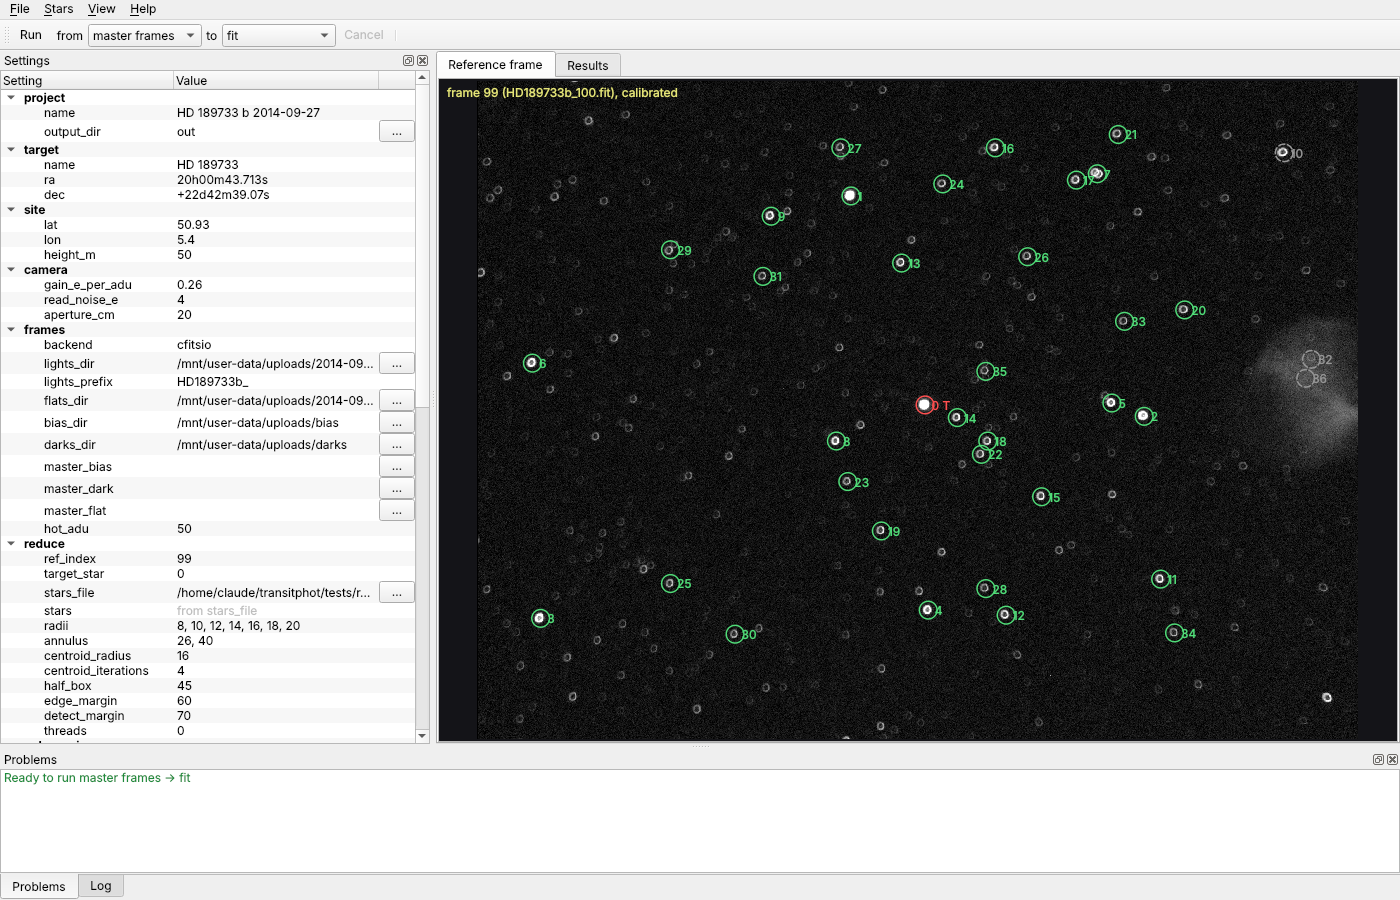
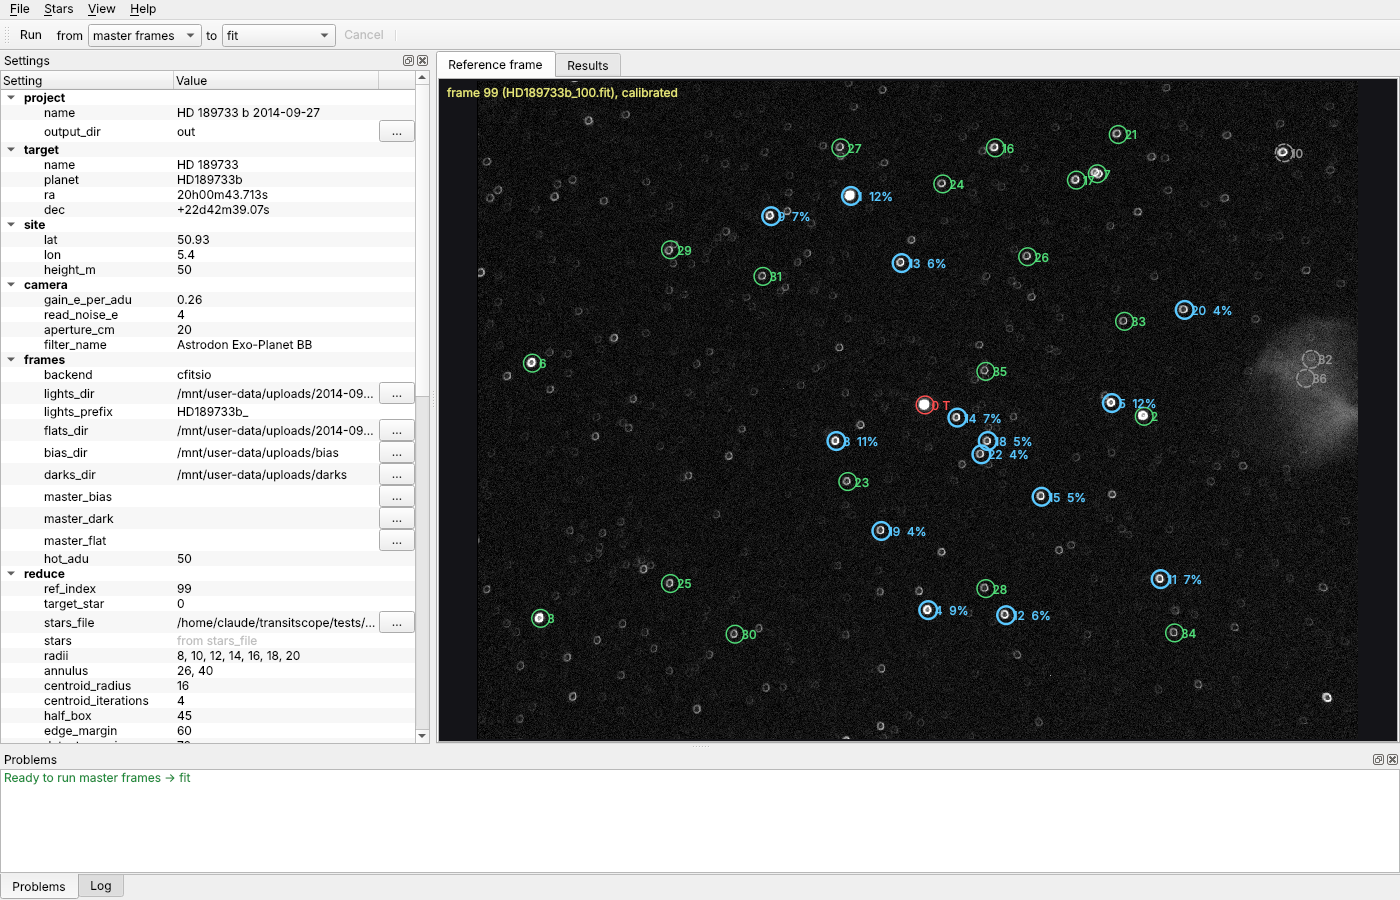
Stable comparison-star selection
The comparison-star selection is now stable (TransitScope 0.10.0). I fixed it differently from what I proposed, because measuring it showed the minimum-weight idea wouldn’t have helped.

What the measurements showed: I wrote a test, tests/unit/comp_stability_test, that disturbs the selection on purpose in two ways:

Excluding stars that weren’t chosen: this never changed the selection, 0 of 19 tries.
Adding tiny noise to the photometry: I multiplied every flux by 1 + 0.01–0.1 % random noise, roughly the size of differences between backends or reference frames. This did change it: 5 of 12 runs at 1e‑4 noise.

The star that flipped is star 12, with 5.5 % of the weight, an ordinary comparison star rather than a faint one. Removing it changed the residual RMS by almost exactly the old 0.2 % threshold, so it sat on the edge. A minimum weight wouldn’t have caught it.

The fix: a star is now dropped only if that lowers the residual RMS by more than 1 % (it was 0.2 %). Stars that help or hurt only marginally are kept every time.

	0.2 % rule (old)	1 % rule (new)
tiny flux noise, 1e‑4 and 3e‑4 (12 runs)	5 changed	0 changed
larger flux noise, 1e‑3 (6 runs)	3 changed	1 changed: same stars, aperture 12 instead of 10 px
Python vs C++ photometry	13 vs 14 stars	both the same 14 stars
your 2014 light curve	—	identical numbers to before

So the old 13-versus-14 difference between the Python reference and the C++ pipeline is gone, and your results don’t change at all.
[…]

diff --git a/tests/unit/comp_stability_test.cpp b/tests/unit/comp_stability_test.cpp
@@ -1,0 +1,79 @@
+// SPDX-License-Identifier: GPL-3.0-or-later
+// Stability of the automatic comparison-star selection: excluding a star that was NOT selected
+// (as happens when the star list or the exclusions are edited elsewhere) should not change which
+// stars are selected. Reports, for every unselected candidate, whether the selection changed.
+//
+// usage: comp_stability_test PHOT_CSV [max_flips=0]   (2014-09-27 HD 189733 b settings)
+#include <algorithm>
+#include <cstdio>
+#include <cstdlib>
+#include <random>
+#include <string>
+
+#include "transit/ensemble.h"
+
+using namespace transit;
+
+static std::string list(const std::vector<size_t>& v) {
+    std::string s;
+    for (size_t i : v) s += (s.empty() ? "" : ",") + std::to_string(i);
+    return s;
+}
+
+int main(int argc, char** argv) {
+    if (argc < 2) { std::fprintf(stderr, "usage: %s PHOT_CSV [max_flips] [min_improvement]\n", argv[0]); return 2; }
+    const int max_flips = argc > 2 ? std::atoi(argv[2]) : 0;
+    const PhotTable t = load_phot_csv(argv[1]);
+    EnsembleConfig cfg;
+    cfg.eph = {2454279.436714, 2.21857567, 0.07527};
+    cfg.score_model.per = cfg.eph.P;
+    cfg.exclude_stars = {10, 32, 36};
+    cfg.gain = 0.26; cfg.read_noise_e = 4; cfg.aperture_cm = 20; cfg.site_height_m = 50;
+    if (argc > 3) cfg.min_improvement = std::atof(argv[3]);
+    std::printf("min_improvement %g\n", cfg.min_improvement);
+    const EnsembleResult base = build_light_curve(t, cfg);
+    auto sorted = base.comps;
+    std::sort(sorted.begin(), sorted.end());
+    for (const auto& sc : base.scan) std::printf("  r = %4g: %2zu stars, model rms %.6f\n", sc.radius, sc.ncomps, sc.model_rms);
+    std::printf("baseline: r = %g px, %zu comparison stars: %s\n", base.radius, sorted.size(), list(sorted).c_str());
+    for (size_t i = 0; i < base.comps.size(); ++i) std::printf("  star %2zu weight %.3f\n", base.comps[i], base.weights[i]);
+    int flips = 0, tried = 0;
+    for (size_t s = 0; s < t.ns; ++s) {
+        if (s == cfg.target || std::count(cfg.exclude_stars.begin(), cfg.exclude_stars.end(), s) ||
+            std::count(sorted.begin(), sorted.end(), s))
+            continue;
+        EnsembleConfig c2 = cfg;
+        c2.exclude_stars.push_back(s);
+        const EnsembleResult r = build_light_curve(t, c2);
+        auto got = r.comps;
+        std::sort(got.begin(), got.end());
+        ++tried;
+        const bool same = got == sorted && r.radius == base.radius;
+        if (!same) ++flips;
+        std::printf("exclude unselected star %2zu: %s%s\n", s, same ? "same selection" : "CHANGED -> ",
+                    same ? "" : (list(got) + " r=" + std::to_string(r.radius)).c_str());
+    }
+    std::printf("%d of %d exclusions of unselected stars changed the selection\n", flips, tried);
+
+    // tiny changes in the photometry (another backend, reference frame or aperture placement give
+    // differences of this order): multiply every flux by (1 + N(0, eps))
+    int pflips = 0, ptried = 0;
+    for (double eps : {1e-4, 3e-4, 1e-3}) {
+        for (int seed = 1; seed <= 6; ++seed) {
+            PhotTable p = t;
+            std::mt19937_64 rng(seed);
+            std::normal_distribution<double> N(0, eps);
+            for (auto& f : p.flux) f *= 1 + N(rng);
+            const EnsembleResult r = build_light_curve(p, cfg);
+            auto got = r.comps;
+            std::sort(got.begin(), got.end());
+            ++ptried;
+            const bool same = got == sorted && r.radius == base.radius;
+            if (!same) ++pflips;
+            std::printf("flux noise %.0e seed %d: %s%s\n", eps, seed, same ? "same selection" : "CHANGED -> ",
+                        same ? "" : (list(got) + " r=" + std::to_string(r.radius)).c_str());
+        }
+    }
+    std::printf("%d of %d perturbed photometry runs changed the selection\n", pflips, ptried);
+    return flips + pflips > max_flips ? 1 : 0;
+}

diff --git a/gui/MainWindow.cpp b/gui/MainWindow.cpp
@@ -11,6 +11,7 @@
 #include <QDir>
 #include <QDockWidget>
 #include <QFileDialog>
+#include <QFile>
 #include <QFileInfo>
 #include <QFutureWatcher>
 #include <QLabel>
@@ -736,7 +737,41 @@ bool MainWindow::exportLightCurve(int target, const QString& fileForTest) {
 
 void MainWindow::reloadResults() {
     if (!project_) return;
-    results_->load(QString::fromStdString(project_->resolve(project_->output_dir)), project_->lightcurve.eph.T14);
+    const QString out = QString::fromStdString(project_->resolve(project_->output_dir));
+    results_->load(out, project_->lightcurve.eph.T14);
+    updateComparisonMarks(out);
+}
+
+void MainWindow::updateComparisonMarks(const QString& outDir) {
+    // comparison stars and weights from lc.csv's header; star indices refer to the star list of the
+    // run that wrote phot.csv, so they are shown only while the list has the same number of stars
+    QMap<size_t, double> marks;
+    QFile lc(QDir(outDir).filePath("lc.csv"));
+    QStringList comps, weights;
+    if (lc.open(QIODevice::ReadOnly | QIODevice::Text)) {
+        while (!lc.atEnd()) {
+            const QString line = QString::fromUtf8(lc.readLine()).trimmed();
+            if (!line.startsWith('#')) break;
+            if (line.startsWith("# comparison_stars=")) comps = line.mid(19).split(';', Qt::SkipEmptyParts);
+            if (line.startsWith("# weights=")) weights = line.mid(10).split(';', Qt::SkipEmptyParts);
+        }
+    }
+    long nsPhot = -1;
+    QFile ph(QDir(outDir).filePath("phot.csv"));
+    if (ph.open(QIODevice::ReadOnly) && ph.size() > 0) {
+        ph.seek(std::max<qint64>(0, ph.size() - 4096));
+        const QStringList lines = QString::fromUtf8(ph.readAll()).split('\n', Qt::SkipEmptyParts);
+        if (!lines.isEmpty()) {
+            const QStringList f = lines.last().split(',');
+            if (f.size() > 7) nsPhot = f[7].toLong() + 1;
+        }
+    }
+    const bool sameList = nsPhot == long(currentStars().size());
+    if (sameList && comps.size() == weights.size())
+        for (int i = 0; i < comps.size(); ++i) marks[comps[i].toULongLong()] = weights[i].toDouble();
+    image_->setComparisons(marks);
+    if (!comps.isEmpty() && !sameList)
+        statusBar()->showMessage(tr("Comparison stars of the last run not shown: the star list changed since."), 6000);
 }
 
 void MainWindow::runForTest(const QString& screenshot, double cancelAfterSeconds) {

diff --git a/src/project.cpp b/src/project.cpp
@@ -291,6 +291,7 @@ Project parse_project(const std::string& text, const std::string& base_dir) {
         s.numbers("comparison_stars", c.comps);
         s.numbers("radii", c.radii);
         s.number("min_comparison_stars", c.min_comps);
+        s.number("min_improvement", c.min_improvement);
         s.number("oot_margin", c.oot_margin);
         s.number("cooler_tolerance", c.cooler_tol);
         s.number("saturation_adu", c.sat_adu);
@@ -460,7 +461,7 @@ std::string project_to_toml(const Project& p) {
       << "\nthreads = " << r.threads << "\n\n";
     o << "[ephemeris]\nT0 = " << num(c.eph.T0) << "\nP = " << num(c.eph.P) << "\nT14 = " << num(c.eph.T14) << "\n\n";
     o << "[lightcurve]\nexclude_stars = " << list(c.exclude_stars) << "\ncomparison_stars = " << list(c.comps)
-      << "\nradii = " << list(c.radii) << "\nmin_comparison_stars = " << c.min_comps << "\noot_margin = " << num(c.oot_margin)
+      << "\nradii = " << list(c.radii) << "\nmin_comparison_stars = " << c.min_comps << "\nmin_improvement = " << num(c.min_improvement) << "\noot_margin = " << num(c.oot_margin)
       << "\ncooler_tolerance = " << num(c.cooler_tol) << "\nsaturation_adu = " << num(c.sat_adu)
       << "\nmin_relative_flux = " << num(c.min_rel_flux) << "\nscore_rp = " << num(c.score_model.rp)
       << "\nscore_a = " << num(c.score_model.a) << "\nscore_inc = " << num(c.score_model.inc)
@@ -558,6 +559,7 @@ exclude_stars = [10, 32, 36]                # never comparison stars (example)
 comparison_stars = []                       # empty: chosen automatically
 radii = []                                  # radii to try; empty: all of [reduce] radii
 min_comparison_stars = 3
+min_improvement = 0.01                      # a star is dropped only if that lowers the residual RMS by more than 1 %
 oot_margin = 0.003                          # days beyond T14/2 still treated as in transit
 cooler_tolerance = 0.35                     # CCD-TEMP off its median by more: frame flagged
 saturation_adu = 45000.0                    # target peak above this: frame flagged

diff --git a/gui/ImageView.cpp b/gui/ImageView.cpp
@@ -106,8 +106,10 @@ void ImageView::redrawStars() {
     const double r = ap_.radii.empty() ? 10 : ap_.radii[ap_.radii.size() / 2];
     for (size_t i = 0; i < stars_.size(); ++i) {
         const QPointF c = toScene(stars_[i].first, stars_[i].second);
-        QColor col = i == target_ ? QColor(255, 80, 80) : excluded_.contains(i) ? QColor(150, 150, 150) : QColor(80, 220, 120);
-        QPen pen(col, 1.5);
+        const bool comp = comps_.contains(i);
+        QColor col = i == target_ ? QColor(255, 80, 80) : excluded_.contains(i) ? QColor(150, 150, 150)
+                   : comp ? QColor(90, 200, 255) : QColor(80, 220, 120);
+        QPen pen(col, comp ? 2.5 : 1.5);
         pen.setCosmetic(true);
         if (excluded_.contains(i)) pen.setStyle(Qt::DashLine);
         auto* e = scene()->addEllipse(c.x() - r, c.y() - r, 2 * r, 2 * r, pen);
@@ -123,7 +125,9 @@ void ImageView::redrawStars() {
                 markers_ << a;
             }
         }
-        auto* t = scene()->addSimpleText(i == target_ ? QString("%1 T").arg(i) : QString::number(i));
+        QString label = i == target_ ? QString("%1 T").arg(i) : QString::number(i);
+        if (comp) label += QString("  %1%").arg(100 * comps_.value(i), 0, 'f', 0);
+        auto* t = scene()->addSimpleText(label);
         t->setBrush(col);
         t->setFlag(QGraphicsItem::ItemIgnoresTransformations);
         t->setPos(c.x() + r * 0.75, c.y() - r * 0.75);

diff --git a/gui/ImageView.h b/gui/ImageView.h
@@ -6,6 +6,7 @@
 //   wheel                       zoom around the cursor; drag pans
 #pragma once
 #include <QGraphicsView>
+#include <QMap>
 #include <QSet>
 
 #include "transit/image.h"
@@ -26,6 +27,8 @@ public:
 
     void setStars(const transit::StarList& stars, size_t target, const QSet<size_t>& excluded);
     void setAperture(const transit::ApertureConfig& ap) { ap_ = ap; redrawStars(); }
+    /// Comparison stars of the last light curve with their ensemble weights (empty: none shown).
+    void setComparisons(const QMap<size_t, double>& weights) { comps_ = weights; redrawStars(); }
     /// Stretch: black and white points as multiples of the background noise above the median.
     void setStretch(double low_sigma, double high_sigma);
     void fitInView();
@@ -59,6 +62,7 @@ private:
     transit::StarList stars_;
     size_t target_ = 0;
     QSet<size_t> excluded_;
+    QMap<size_t, double> comps_;
     long selected_ = -1;
     transit::ApertureConfig ap_;
     double lowSigma_ = -1.5, highSigma_ = 60;

diff --git a/include/transit/ensemble.h b/include/transit/ensemble.h
@@ -21,6 +21,9 @@ struct EnsembleConfig {
     std::vector<double> radii;            // empty = try all radii in the table
     std::vector<size_t> comps;            // empty = automatic selection
     size_t min_comps = 3;
+    // a star is dropped from the ensemble only if that lowers the light curve's residual RMS by more
+    // than this fraction (a margin well above the RMS changes small photometry differences cause)
+    double min_improvement = 0.01;
     // fixed geometry used to score comparison sets (free Tc, Rp/Rs, quadratic baseline)
     TransitParams score_model{0, 2.21857567, 0.155, 8.84, 85.7, 0.50, 0.19};
     // noise model

diff --git a/src/ensemble.cpp b/src/ensemble.cpp
@@ -176,7 +176,7 @@ EnsembleResult build_light_curve(const PhotTable& t, const EnsembleConfig& cfg) 
                 const double v = model_rms(c, ensemble_lc(c, ri, cc, nullptr), R.tc_pred);
                 if (v < bmin) { bmin = v; drop = k; }
             }
-            if (bmin < cur * 0.998) { comps.erase(comps.begin() + drop); cur = bmin; }
+            if (bmin < cur * (1.0 - cfg.min_improvement)) { comps.erase(comps.begin() + drop); cur = bmin; }
             else break;
         }
         const auto lc = ensemble_lc(c, ri, comps, nullptr);

diff --git a/tools/transitscope.cpp b/tools/transitscope.cpp
@@ -120,6 +120,7 @@ int cmd_lightcurve(const Args& a) {
     cfg.cooler_tol = std::stod(a.get("cooler-tol", "0.35"));
     cfg.sat_adu = std::stod(a.get("sat-adu", "45000"));
     cfg.min_rel_flux = std::stod(a.get("min-rel-flux", "0.03"));
+    cfg.min_improvement = std::stod(a.get("min-improvement", "0.01"));
     cfg.exclude_stars = parse_index_list(a.get("exclude-stars", ""));
     if (!a.get("radii").empty()) cfg.radii = parse_list(a.get("radii"));
     cfg.comps = parse_index_list(a.get("comps", ""));

diff --git a/gui/MainWindow.h b/gui/MainWindow.h
@@ -82,6 +82,7 @@ private:
     void appendLog(const QString& line);
     void showProgress(int stage, qulonglong done, qulonglong total);
     void reloadResults();
+    void updateComparisonMarks(const QString& outDir);
     /// target: ExportTarget. fileForTest: write there without dialogs.
     bool exportLightCurve(int target, const QString& fileForTest);
 

diff --git a/README.md b/README.md
@@ -31,7 +31,8 @@ build/transitscope-gui myproject.toml
   once: **Problems** lists what is wrong or missing (the same checks as `transitscope project check`),
   or says the project is ready to run.
 - **Reference frame**: the calibrated reference frame (raw until the master frames exist) with the
-  star list. Click on a star-free spot to add a star (centroided), right-click a star to make it the
+  star list; after a run, the comparison stars of the light curve are drawn in blue with their weights.
+  Click on a star-free spot to add a star (centroided), right-click a star to make it the
   target, exclude it from the comparison stars or remove it; star indices in the other settings are
   kept consistent. *Stars → Detect stars* replaces the list. An edited list is saved in the project file.
 - **Run**: runs the chosen stages (from … to …) in the background with a progress bar; *Cancel*
@@ -236,6 +237,8 @@ FitCurves curves = fit_curves(pts.t, pts.f, fit, fit_cfg);  // detrended flux, m
 
 `tests/gui/gui_test PROJECT.toml` (built with the GUI, runs offscreen with `QT_QPA_PLATFORM=offscreen`)
 opens a project and checks star picking, index bookkeeping, validation and saving.
+`tests/unit/comp_stability_test phot.csv` checks that the comparison selection does not change when an
+unselected star is excluded or the photometry changes slightly (flux noise of 1e-4 to 1e-3).
 `tests/unit/project_test` checks the project file (template, round trip, paths, error reports).
 `tests/unit/reduce_api_test` and `tests/unit/fit_api_test` check progress reporting, cancelling,
 that a callback or the thread count does not change results, and the in-memory tables against the
@@ -249,7 +252,7 @@ Python (numpy, astropy, batman, emcee) is used only by the test scripts, never a
 python3 -I tests/compare_reference.py phot.csv tests/reference/phot.npz tests/reference/lc.npz   # photometry + timing
 python3 -I tests/unit/check_model_vs_batman.py build/model_dump                                   # transit model
 python3 -I tests/npz_to_phot_csv.py tests/reference/phot.npz tests/reference/lc.npz phot_ref.csv  # same input as Python
-transitscope lightcurve --phot phot_ref.csv ... --out lc.csv
+transitscope lightcurve --phot phot_ref.csv ... --min-improvement 0.002 --out lc.csv   # the reference's selection rule
 python3 -I tests/compare_lightcurve.py lc.csv tests/reference/lc.npz 1e-9                         # ensemble
 transitscope fit --lc lc.csv --mode constrained --out fit.json
 python3 -I tests/compare_fit.py fit.json tests/reference/fitC.json                                # MCMC
@@ -269,7 +272,8 @@ Transit model: max |C++ − batman| = 2.4e-8 over 128 parameter sets (Rp/Rs 0.01
 full transits, four limb-darkening laws) × 401 times.
 
 Light curve on identical photometry input: same good/out-of-transit masks, same aperture (10 px),
-same 13 comparison stars and weights, flux identical to < 1e-9.
+same 13 comparison stars and weights, flux identical to < 1e-9 (with `--min-improvement 0.002`, the
+reference's rule; with the default 1 % both photometries keep the same 14 stars).
 
 MCMC (16 000 steps, 3 seeds) vs emcee: every parameter within 0.06 σ of the emcee median, error
 bars within 2 %, same autocorrelation times (~120–155 steps).
@@ -280,8 +284,8 @@ bars within 2 %, same autocorrelation times (~120–155 steps).
 | C++ on the same light curve | 2456928.41600 ± 0.00043 | 0.1508 ± 0.0049 | −0.1 ± 0.6 min |
 | C++ end to end from raw frames | 2456928.41608 ± 0.00043 | 0.1511 ± 0.0048 | +0.0 ± 0.6 min |
 
-The end-to-end run differs by 0.2 σ: with its own photometry the comparison selection keeps one
-extra faint star (14 instead of 13) — both selections give the same residual RMS.
+The end-to-end run differs by 0.2 σ: with its own photometry the old 0.2 % selection rule kept one
+more star (14 instead of 13). Since 0.10.0 (1 % rule) both photometries select the same 14 stars.
 
 ## Backend comparison (CFITSIO 4.3.1 vs libxisfconv 0.25.0)
 

diff --git a/docs/ARCHITECTURE.md b/docs/ARCHITECTURE.md
@@ -37,7 +37,7 @@ Three layers: **libtransit** (all science, no UI) → **transitscope** CLI (scri
 ## Known limitations / roadmap
 
 1. Done in 0.2.0: ensemble light curve and MCMC fit (see README for the regression results).
-2. Comparison selection is greedy and keeps any star that lowers the residual RMS by > 0.2 %; a faint, noisy star can tip in or out on tiny photometry differences. Options: a minimum weight, or selecting on a held-out half of the frames.
+2. Done in 0.10.0: stable comparison selection. Backward elimination drops a star only if that lowers the residual RMS by more than `min_improvement` (1 %, was 0.2 %). With 0.2 %, star 12 (weight 5.5 %) sat on the threshold: flux noise of 1e-4 changed the selection in 5 of 12 runs, and the Python and C++ photometry chose 13 and 14 stars. With 1 % no run changed it up to 3e-4, both photometries give the same 14 stars, and the 2014 light curve is unchanged (`tests/unit/comp_stability_test`). A minimum weight was considered but would not have helped: the flipping star was not a faint one.
 3. **Fractional-pixel apertures** (exact circle/pixel overlap). Hard-edged apertures make flux jump by ~3e-4 when one boundary pixel moves in/out — visible in the regression test at r = 8 px.
 4. Defocus mode: donut-template centroid and encircled-energy sizing (`r90` is already logged).
 5. Done in 0.4.0: limb-darkening priors from filter × camera QE (`transitscope ld`). Open: a measured XOP-BB transmission curve, PHOENIX tables for M dwarfs, and power-2 / non-linear laws.
